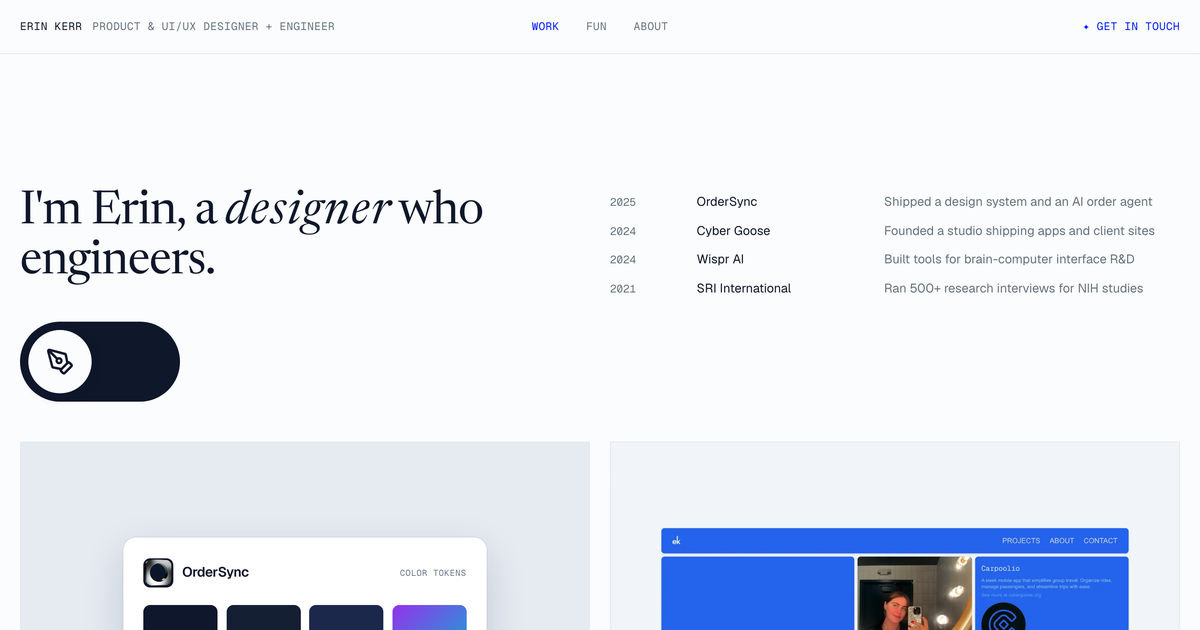
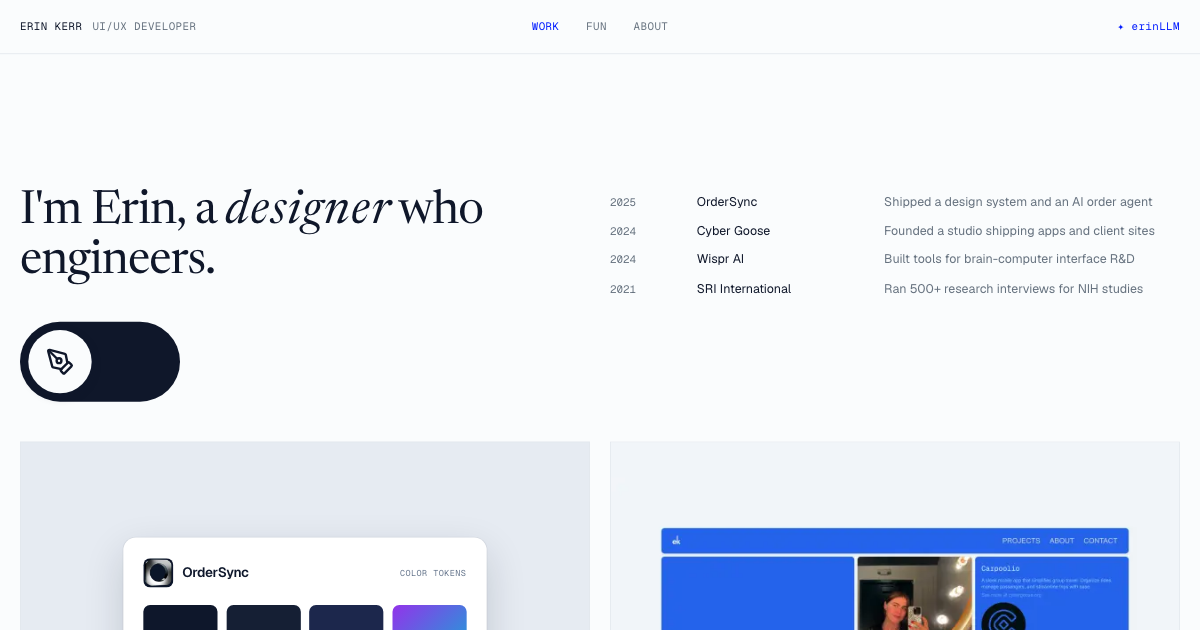
Say UI/UX developer instead of product & UI/UX designer
The header, the link preview's title, the About page's description,
the Person data and llms.txt now say UI/UX developer. The link preview
image is retaken so its header matches.

Claude-Session: https://claude.ai/code/session_01UiBLy9y4R4THb159wtLm3y

diff --git a/src/app/layout.tsx b/src/app/layout.tsx
@@ -23,7 +23,7 @@ const newsreader = Newsreader({
 
 // What people see when erinkerr.me is pasted into an application or a
 // message. Words from the header and the homepage headline.
-const siteTitle = "Erin Kerr — Product & UI/UX designer + engineer";
+const siteTitle = "Erin Kerr — UI/UX developer";
 const siteDescription =
   "I’m Erin, a designer who engineers. Case studies of my shipped work, from OrderSync’s design system to my App Store apps.";
 
@@ -66,9 +66,9 @@ const jsonLd = {
       "@id": "https://erinkerr.me/#person",
       name: "Erin Kerr",
       url: "https://erinkerr.me",
-      jobTitle: "Product & UI/UX Designer",
+      jobTitle: "UI/UX Developer",
       description:
-        "Product and UI/UX designer who engineers: she designs and builds web and mobile apps.",
+        "UI/UX developer: she designs and builds web and mobile apps.",
       image: "https://erinkerr.me/ek.png",
       sameAs: [
         "https://erin-codes.com",

diff --git a/src/app/about/page.tsx b/src/app/about/page.tsx
@@ -7,7 +7,7 @@ import { FinalRoom } from "./Room";
 export const metadata: Metadata = {
   title: "About",
   description:
-    "Erin Kerr is a product and UI/UX designer who engineers. Before design: 500+ research interviews at SRI International and brain-computer interface tools at Wispr AI.",
+    "Erin Kerr is a UI/UX developer. Before design: 500+ research interviews at SRI International and brain-computer interface tools at Wispr AI.",
   alternates: { canonical: "/about" },
 };
 

diff --git a/src/app/llms.txt/route.ts b/src/app/llms.txt/route.ts
@@ -12,9 +12,9 @@ export function GET() {
 
   const body = `# Erin Kerr
 
-Erin Kerr is a product and UI/UX designer who engineers. She designs and
-ships web apps, mobile apps, and developer tools, and writes about the
-process on her blog at ${baseUrl}.
+Erin Kerr is a UI/UX developer. She designs and ships web apps, mobile
+apps, and developer tools, and writes about the process on her blog at
+${baseUrl}.
 
 ## Case studies
 

diff --git a/src/components/site/SiteHeader.tsx b/src/components/site/SiteHeader.tsx
@@ -28,7 +28,7 @@ export default function SiteHeader() {
         <Link href="/" className={`justify-self-start ${focusRing}`}>
           <span className="text-site-ink">Erin Kerr</span>
           <span className="ml-3 hidden text-site-muted lg:inline">
-            Product &amp; UI/UX designer + engineer
+            UI/UX developer
           </span>
         </Link>
 
